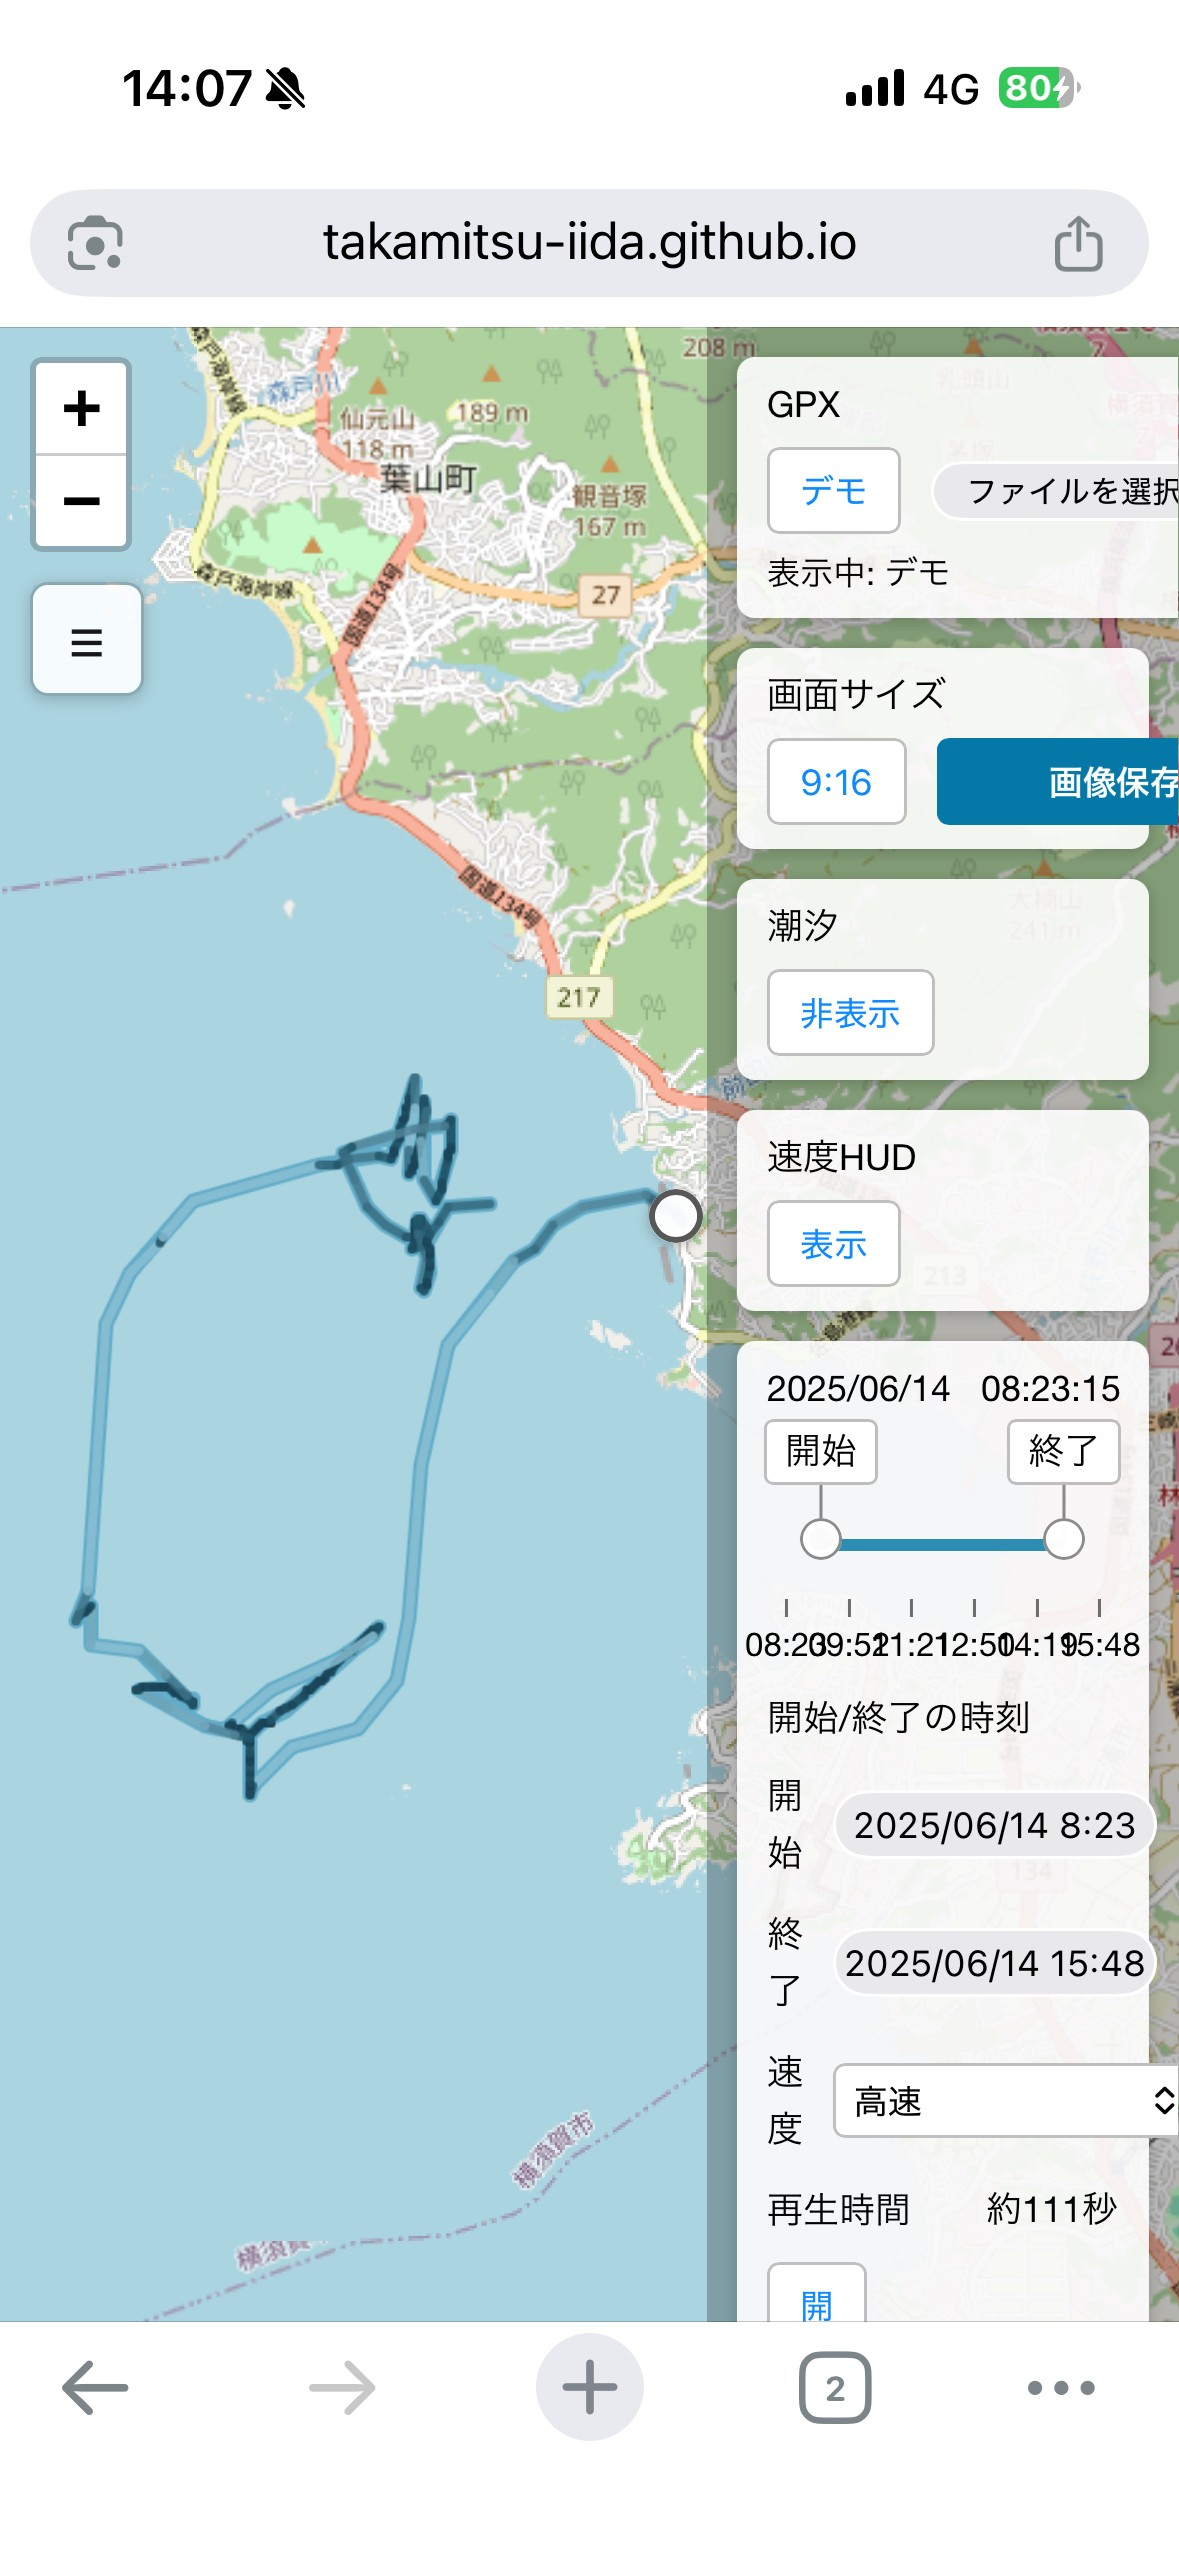
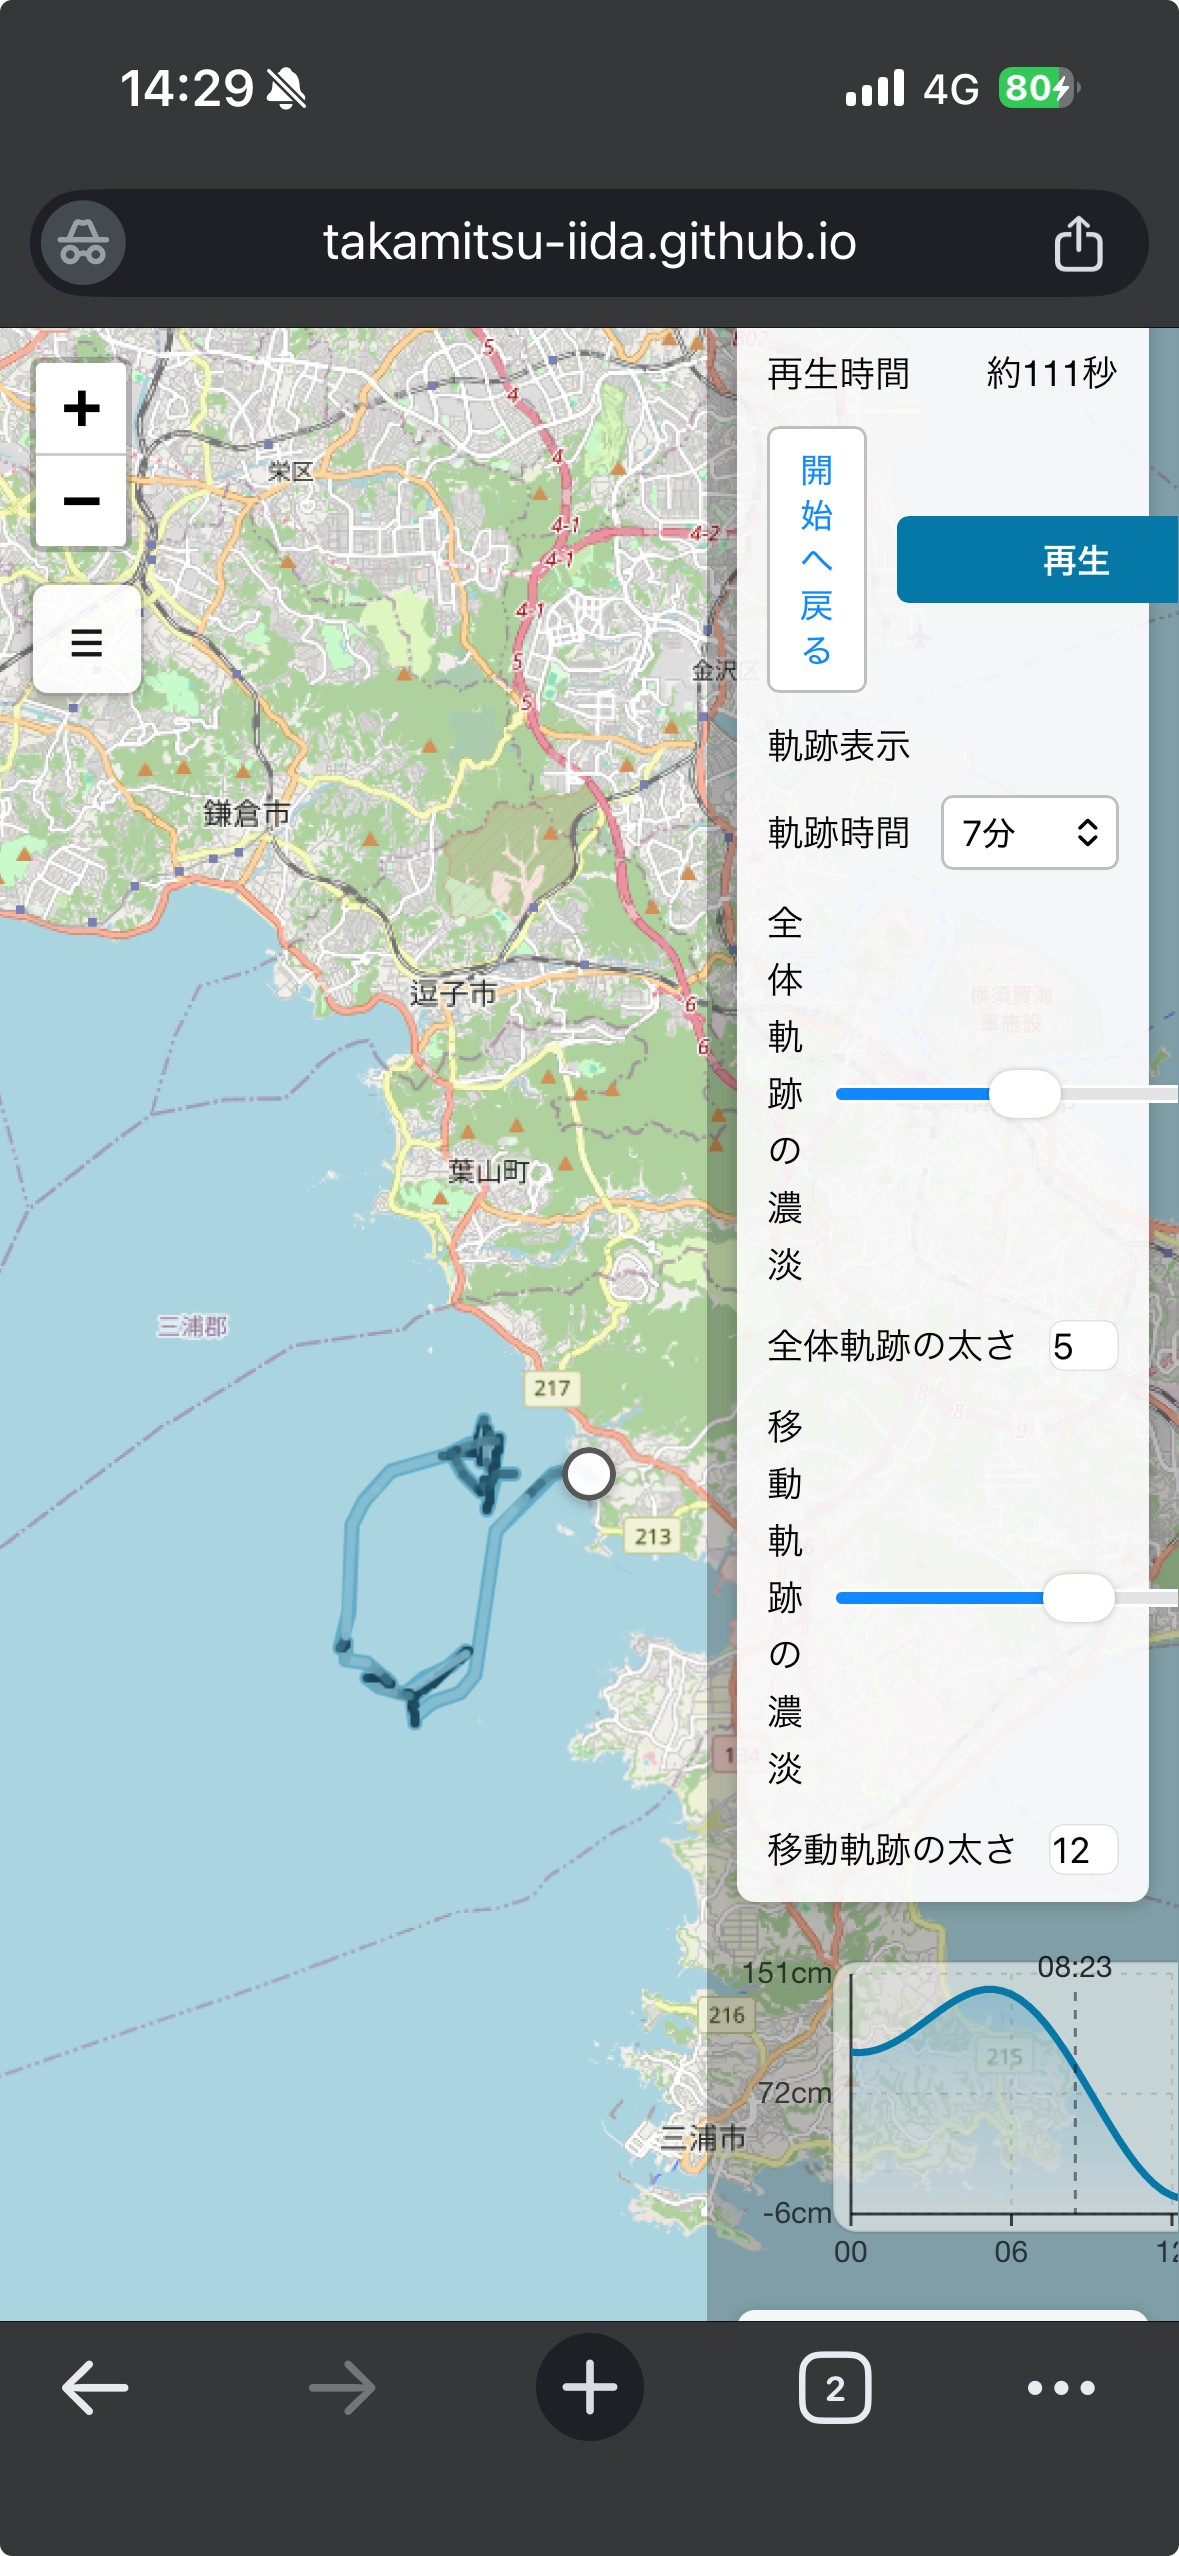
update

diff --git a/static/site/js/index.js b/static/site/js/index.js
@@ -1015,6 +1015,15 @@ function createTideOverlayControl(map) {
     } catch {
       // ignore
     }
+    // hide floating fallback if present
+    try {
+      const f = document.getElementById('gpxv-tide-float');
+      if (f) f.style.display = 'none';
+      const sb = document.getElementById('gpxv-tide-sidebar');
+      if (sb) sb.style.display = 'none';
+    } catch {
+      // ignore
+    }
   };
 
   const setMessage = (text) => {
@@ -1182,6 +1191,35 @@ function createTideOverlayControl(map) {
       if (sb) {
         sb.style.display = 'block';
         sb.innerHTML = svgWrap.innerHTML;
+      }
+    } catch {
+      // ignore
+    }
+
+    // モバイル等で地図上コントロールが見えない場合のフォールバック：
+    // 画面上に固定で表示する要素を作成・同期する
+    try {
+      const isTouch = (() => { try { return window.matchMedia('(pointer: coarse)').matches; } catch { return false; } })();
+      if (isTouch) {
+        let f = document.getElementById('gpxv-tide-float');
+        if (!f) {
+          f = document.createElement('div');
+          f.id = 'gpxv-tide-float';
+          f.className = 'gpxv-tide-float';
+          Object.assign(f.style, {
+            position: 'fixed',
+            right: '12px',
+            bottom: '84px',
+            zIndex: '4200',
+            background: 'rgba(255,255,255,0.92)',
+            padding: '6px',
+            borderRadius: '8px',
+            boxShadow: '0 2px 8px rgba(0,0,0,0.25)'
+          });
+          document.body.appendChild(f);
+        }
+        f.style.display = 'block';
+        f.innerHTML = svgWrap.innerHTML;
       }
     } catch {
       // ignore

diff --git a/static/site/css/style.css b/static/site/css/style.css
@@ -392,6 +392,11 @@ body.gpxv-shorts .gpxv-tide__svg {
   margin-top: 6px;
 }
 
+/* floating tide (mobile) */
+.gpxv-tide-float {
+  max-width: 320px;
+}
+
 .gpxv-control__title {
   font-size: 12px;
   line-height: 1.4;
